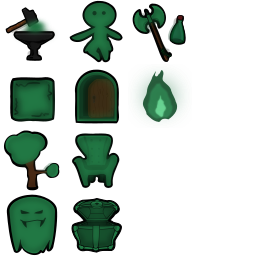
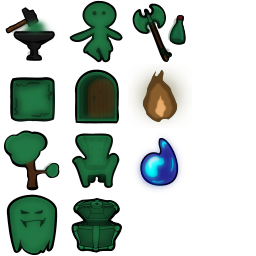
Editor : add water tool

Changed region(s): [[0.5312, 0.5312, 0.7188, 0.75], [0.5312, 0.2812, 0.7188, 0.5]]

diff --git a/app/src/main/cppeditor/MapEditorLib.cpp b/app/src/main/cppeditor/MapEditorLib.cpp
@@ -90,6 +90,7 @@ enum SpawnCategory
     SPAWN_MONSTER,
     SPAWN_PLANT,
     SPAWN_TILE,
+    SPAWN_WATER,
     SPAWN_DOOR,
     SPAWN_LIGHT,
     SPAWN_DECORATION,
@@ -102,7 +103,7 @@ enum SpawnCategory
 
 const char* SpawnCategoryNameStr[] =
 {
-    "None", "Actor", "Monster", "Plant", "Tile", "Door", "Light", "Decoration", "Container", "Collectable", "Tool", 0
+    "None", "Actor", "Monster", "Plant", "Tile", "Water", "Door", "Light", "Decoration", "Container", "Collectable", "Tool", 0
 };
 
 enum ClickMode
@@ -2991,6 +2992,12 @@ void MapEditorLibImpl::SpawnObject(const WorldMapPosition& position)
             GameHelpers::AddTile(position);
             URHO3D_LOGINFOF("MapEditorLibImpl() - SpawnObject : Spawn Tile !");
         }
+    }
+    else if (spawnCategory_ == SPAWN_WATER)
+    {
+        GameHelpers::AddWater(position);
+        URHO3D_LOGINFOF("MapEditorLibImpl() - SpawnObject : Spawn Water !");
+
     }
     else if (spawnCategory_ == SPAWN_PLANT || spawnCategory_ == SPAWN_DOOR || spawnCategory_ == SPAWN_LIGHT || spawnCategory_ == SPAWN_DECORATION ||
              spawnCategory_ == SPAWN_CONTAINER || spawnCategory_ == SPAWN_COLLECTABLE || spawnCategory_ == SPAWN_TOOL)

diff --git a/app/src/main/cpp/GameHelpers.cpp b/app/src/main/cpp/GameHelpers.cpp
@@ -2818,7 +2818,6 @@ RenderShape* GameHelpers::GetMapRenderShapeAt(const WorldMapPosition& position, 
 bool GameHelpers::AddTile(const WorldMapPosition& position, bool backgroundAdding)
 {
     MapBase* map;
-
     ObjectMaped::GetPhysicObjectAt(position.position_, map, true);
     if (!map)
     {
@@ -2857,6 +2856,25 @@ bool GameHelpers::AddTile(const WorldMapPosition& position, bool backgroundAddin
     }
 
     return result;
+}
+
+bool GameHelpers::AddWater(const WorldMapPosition& position)
+{
+    MapBase* map;
+    ObjectMaped::GetPhysicObjectAt(position.position_, map, true);
+    if (!map)
+    {
+        map = World2D::GetMapAt(position.mPoint_);
+        if (!map)
+            return false;
+    }
+
+    FluidCell* fcell = map->GetFluidCellPtr(position.tileIndex_, position.viewZIndex_);
+    if (!fcell)
+        return false;
+    
+    fcell->AddFluid(WATER, 5.f);
+    return true;
 }
 
 static const String ScrapTerrain = "Scraps_Terrain";

diff --git a/app/src/main/cpp/GameHelpers.h b/app/src/main/cpp/GameHelpers.h
@@ -162,6 +162,7 @@ public:
     static CollisionShape2D* GetMapCollisionShapeAt(const WorldMapPosition& position);
     static RenderShape* GetMapRenderShapeAt(const WorldMapPosition& position, int& shapeid, int& contourid, RenderCollider*& rendercollider, bool clipped=false);
     static bool AddTile(const WorldMapPosition& position, bool backgroundAdding=false);
+    static bool AddWater(const WorldMapPosition& position);
     static int RemoveTile(const WorldMapPosition& position, bool addeffects, bool adddoor, bool permutesametiles=false, bool onsameview=false);
     static bool SetTile(MapBase* map, FeatureType feat, unsigned tileindex, int layerZ, bool permutesametiles=false, Tile** removedtile=0);
     static bool SetTiles(MapBase* map, FeatureType feat, const Vector<unsigned>& tileindexes, int layerZ, bool entitymode);
